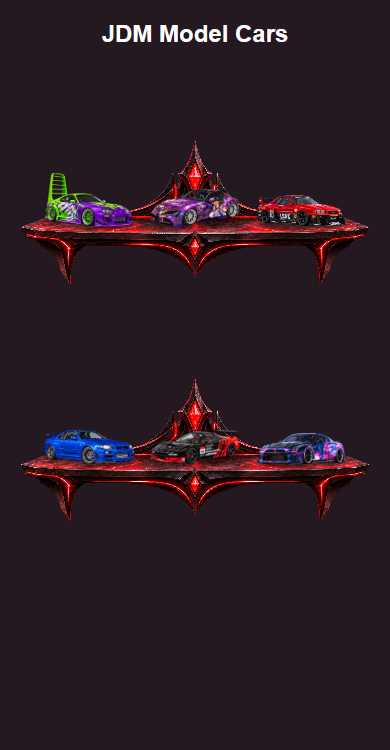
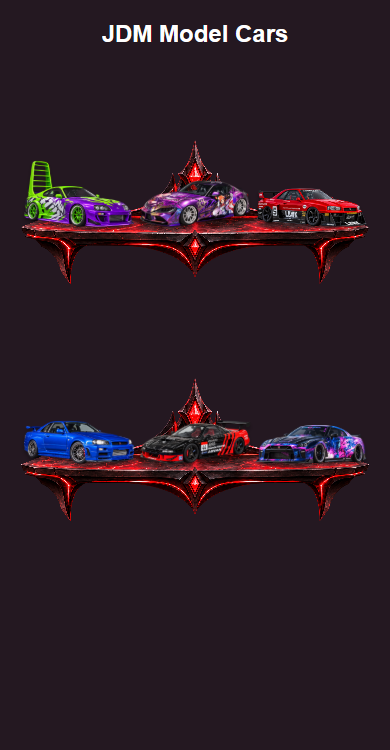
Enlarge shelf cars and improve car chooser previews

Changed region(s): [[0.0615, 0.2147, 0.9538, 0.3067], [0.0615, 0.552, 0.9538, 0.644]]

diff --git a/collectible-shelf.js b/collectible-shelf.js
@@ -280,24 +280,26 @@
     'treasure-chest':[8,961,245,279], phoenix:[268,938,236,303], potion:[523,955,190,288],
     beignets:[718,988,299,252], cupcake:[1026,943,213,299]
   };
-  function sprite(id) {
+  function sprite(id, thumbnail = false) {
     const item = items.find(item => item.id === id);
     if (!item) return '<span class="shelf-empty" aria-label="Empty spot"></span>';
     const asset = standalone[item.id] || (expansion[item.id] ? { source:'assets/shelf-collectibles-expansion.png', width:1254, height:1254, bounds:expansion[item.id] } : null) || (discovery[item.id] ? { source:'assets/shelf-collectibles-discovery.png', width:1254, height:1254, bounds:discovery[item.id] } : null);
     const [x,y,w,h] = asset ? asset.bounds : bounds[item.row * 6 + item.column];
     const source = asset?.source || 'assets/shelf-collectibles.png';
+    const car = item.category === 'JDM Model Cars';
+    if (car && thumbnail) return `<svg class="shelf-object shelf-car-thumbnail" role="img" aria-label="${item.name}" viewBox="${x} ${y} ${w} ${h}"><image href="${source}" width="${asset.width}" height="${asset.height}"/></svg>`;
     const anime = item.category === 'Anime';
     // Every collectible shares the statue sizing and bottom baseline. Wide pieces
     // retain their proportions and stay inside the space between neighboring slots.
     // The low-profile cake uses more of its slot's horizontal gap, without
     // stretching the plate or moving its contact point off the shared baseline.
-    const scale = Math.min(330 / Math.max(w,h), (asset?.displayWidth || 240) / w);
+    const scale = Math.min(330 / Math.max(w,h), (asset?.displayWidth || (car ? 270 : 240)) / w);
     const height = 350;
     return `<svg class="shelf-object${anime ? ' shelf-object-anime' : ''}" style="aspect-ratio:220 / ${height}" role="img" aria-label="${item.name}" viewBox="0 0 220 ${height}"><svg x="${(220-w*scale)/2}" y="${height-4-h*scale}" width="${w*scale}" height="${h*scale}" viewBox="${x} ${y} ${w} ${h}" overflow="hidden"><image href="${source}" width="${asset?.width || 1254}" height="${asset?.height || 1254}"/></svg></svg>`;
   }
   function art(value, interactive = false, active = 0) {
     const state = clean(value);
-    return `<div class="collectible-shelf${interactive ? ' shelf-preview' : ''}" data-shelf-theme="${state.theme}"><div class="shelf-objects">${state.slots.map((id, index) => interactive
+    return `<div class="collectible-shelf${interactive ? ' shelf-preview' : ''}${state.slots.some(id => id.startsWith('jdm-')) ? ' shelf-has-cars' : ''}" data-shelf-theme="${state.theme}"><div class="shelf-objects">${state.slots.map((id, index) => interactive
       ? `<button type="button" data-shelf-slot="${index}" aria-pressed="${index === active}" aria-label="${['Left','Middle','Right'][index]} spot: ${name(id)}">${sprite(id)}<span class="shelf-slot-label">${['Left','Middle','Right'][index]}</span></button>`
       : `<div class="shelf-display-slot">${sprite(id)}</div>`).join('')}</div><div class="shelf-board" aria-hidden="true"></div></div>`;
   }
@@ -360,7 +362,7 @@
       const size=pageSize(), count=Math.max(1,Math.ceil(matches.length/size));
       pages[tab]=Math.min(pages[tab],count-1);
       const visible=matches.slice(pages[tab]*size,(pages[tab]+1)*size);
-      choices.innerHTML=tab==='objects'?visible.map(item=>'<button type="button" data-shelf-item="'+item.id+'" aria-pressed="'+(draft.slots[active]===item.id)+'">'+sprite(item.id)+'<strong>'+item.name+'</strong></button>').join(''):'';
+      choices.innerHTML=tab==='objects'?visible.map(item=>'<button type="button" data-shelf-item="'+item.id+'" aria-pressed="'+(draft.slots[active]===item.id)+'">'+sprite(item.id,true)+'<strong>'+item.name+'</strong></button>').join(''):'';
       themeChoices.innerHTML=tab==='styles'?visible.map(theme=>'<button type="button" data-shelf-theme-choice="'+theme.id+'" aria-pressed="'+(draft.theme===theme.id)+'"><span class="collectible-shelf" data-shelf-theme="'+theme.id+'" aria-hidden="true"><span class="shelf-board"></span></span><strong>'+theme.name+'</strong></button>').join(''):'';
       dialog.querySelector('#shelfResults').textContent=matches.length?matches.length+' '+(tab==='objects'?'objects · '+['Left','Middle','Right'][active]+' spot':'shelf styles'):'No matches. Try another search or category.';
       dialog.querySelector('#shelfPageStatus').textContent='Page '+(pages[tab]+1)+' of '+count;

diff --git a/collectible-shelf.css b/collectible-shelf.css
@@ -15,6 +15,7 @@
 .shelf-objects { display:grid; grid-template-columns:repeat(3,minmax(0,1fr)); align-items:end; gap:8%; padding:0; position:absolute; left:8%; right:8%; bottom:39%; z-index:1; }
 .shelf-object { display:block; width:100%; height:auto; aspect-ratio:220 / 350; overflow:visible; filter:drop-shadow(0 3px 2px #0005); }
 .shelf-display-slot { min-width:0; }
+.shelf-has-cars > .shelf-objects { left:4%; right:4%; }
 .shelf-empty { display:block; width:100%; aspect-ratio:1; }
 /* Viewport (16,32,1640,692) trims transparent margins without stretching the artwork. */
 .shelf-board { position:absolute; inset:0; background:url('assets/collectible-shelf-crimson.png') 50% 12.8514% / 101.9512% 135.9827% no-repeat; pointer-events:none; }
@@ -209,6 +210,7 @@
   .shelf-dialog .shelf-choice-grid strong,.shelf-dialog .shelf-theme-grid strong { font-size:11px; }
 }
 /* Extreme zoom/keyboard heights: keep controls reachable instead of clipping them. */
+.shelf-dialog .shelf-choice-grid .shelf-car-thumbnail { width:100%; height:calc(var(--shelf-card-height) - 54px); aspect-ratio:auto; margin:auto 0; }
 @media(max-height:360px), (max-width:650px) and (max-height:540px) {
   .shelf-dialog[open] { overflow:auto; }
   .shelf-browse-area { min-height:146px; }

diff --git a/work/verify-jdm-cars.js b/work/verify-jdm-cars.js
@@ -41,8 +41,12 @@ const {chromium}=require('playwright'),sharp=require('sharp'),shelf=require('../
      await page.locator('#shelfPreview [data-shelf-slot="'+slot+'"]').click();
      await page.locator('#shelfSearch').fill(shelf.items.find(i=>i.id===id).name);
      const card=page.locator('[data-shelf-item="'+id+'"]');assert(await card.isVisible());
+     const dimensions=await card.locator('.shelf-car-thumbnail').evaluate(e=>{const r=e.getBoundingClientRect(),v=e.viewBox.baseVal;return {width:Math.min(r.width,r.height*v.width/v.height),height:Math.min(r.height,r.width*v.height/v.width),card:e.parentElement.getBoundingClientRect().toJSON(),rect:r.toJSON()};});
+     assert(dimensions.width>75,'Car thumbnail should use its card width');
+     assert(dimensions.rect.top>=dimensions.card.top&&dimensions.rect.bottom<=dimensions.card.bottom,'Car thumbnail stays inside card');
      assert.equal(await card.locator('image').getAttribute('href'),'assets/shelf-'+id+'.png');await card.click();
     }
+    await page.screenshot({path:`work/jdm-chooser-${width}.png`});
     await page.locator('#saveShelf').click();
     assert.deepEqual(await page.evaluate(()=>window.savedShelf),selection);
    }

diff --git a/index.html b/index.html
@@ -14,7 +14,7 @@
   <link rel="stylesheet" href="styles.css?v=20260929-page-targets-v69">
   <link rel="stylesheet" href="launchpad-scenes.css?v=20260928-holiday-motion-v46">
   <link rel="stylesheet" href="scene-frame-fit.css?v=20260927-patriotic-v4">
-  <link rel="stylesheet" href="collectible-shelf.css?v=20260927-ten-shelves-v21">
+  <link rel="stylesheet" href="collectible-shelf.css?v=20260929-car-sizing-v22">
 </head>
 <body>
   <main id="app" class="app-shell"></main>
@@ -25,7 +25,7 @@
 
   <script src="launchpad-scenes.js?v=20260927-patriotic-v45"></script>
   <script src="profile-banners.js?v=20260928-more-sets-v10"></script>
-<script src="collectible-shelf.js?v=20260929-jdm-cars-v48"></script>
+<script src="collectible-shelf.js?v=20260929-car-sizing-v49"></script>
   <script src="app.js?v=20260928-more-sets-v96"></script>
   <script src="colt-assistant.js?v=20260905-lazy-artwork-v2"></script>
   <script src="colt-radio.js?v=20260927-country-afropulse-v27"></script>
